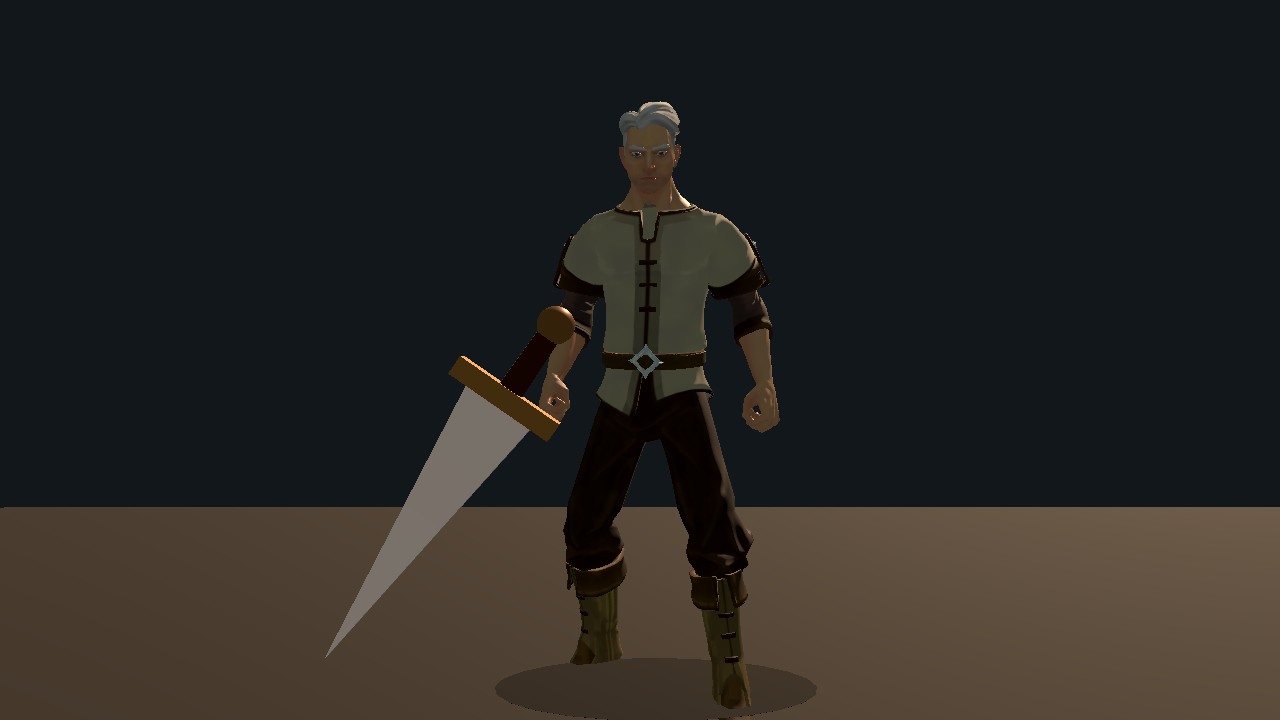
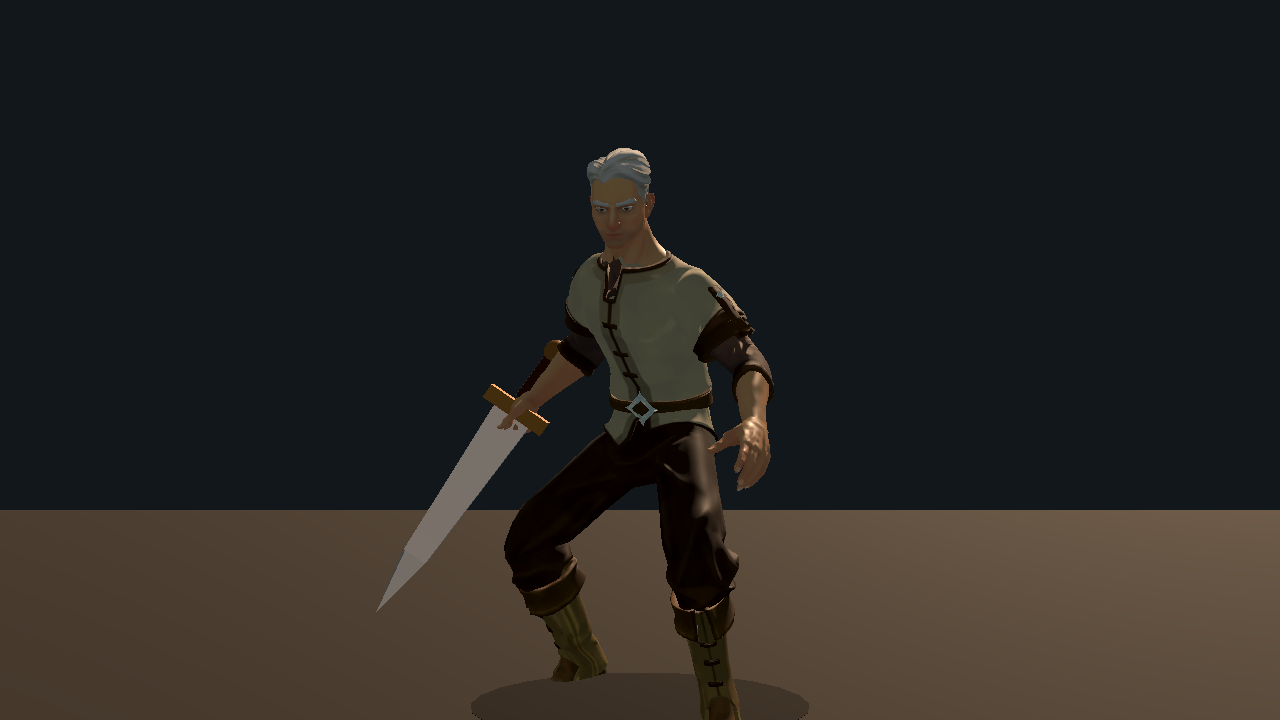
RECOVERY-003: finish locomotion and combat evidence checkpoint

Changed region(s): [[0.0, 0.1222, 1.0, 1.0]]

diff --git a/outputs/AshenOathTheRoadBetweenCrowns/RECOVERY-003_RESULT.md b/outputs/AshenOathTheRoadBetweenCrowns/RECOVERY-003_RESULT.md
@@ -1,5 +1,33 @@
 # RECOVERY-003 Result
 
+## Paused Atomic Checkpoint - 2026-09-05 (locomotion and combat presentation)
+
+- Current ticket: `RECOVERY-003`, focused character locomotion and sword-evidence
+  repair.
+- Completed work: backward gait fallback now reverses forward-only clips when no
+  authored reverse clip exists; missing input actions are treated as neutral in
+  standalone fixtures; the hand-attached Oathblade remains in the normalized
+  equipment hierarchy and has a gameplay-sized mesh; combat captures explicitly
+  draw the sword and advance manually processed animation frames; motion and
+  walk/menu verifiers now retire runtime resources through the shutdown contract.
+- Latest result: `verify_walk_menu_fix.gd`, `verify_motion_quality.gd`,
+  `verify_combat_001.gd`, and `verify_runtime_smoke.gd` all passed with clean
+  exits. Graphical `capture_anim_003.gd` and `capture_char_006.gd` both passed
+  at 1280x720 Compatibility resolution. The regenerated attack and parry
+  evidence contains an actual drawn sword and animated body pose. The CHAR-006
+  capture now warms the imported rig, samples the real PlayerController socket,
+  and rejects background-only frames before saving evidence.
+- Evidence: refreshed `ANIM_003_*` and `CHAR_006_Kael_Sword_Attack.png` frames in
+  `Development_Gallery/screenshots/`, plus the direct native verifier output
+  recorded during this checkpoint.
+- Remaining blocker: this is not a release approval. The broader recovery still
+  has known visual-quality, campaign-proof, startup, target-hardware, export,
+  and deployment blockers. No Web export, push, merge, or deployment was done
+  in this paused slice.
+- Exact next action on resume: begin only the next explicitly selected recovery
+  ticket after reviewing the current release blockers; do not rerun this
+  focused motion/capture set unless one of its inputs changes.
+
 ## Paused Atomic Checkpoint - 2026-09-05
 
 - Current ticket: `RECOVERY-003`, release-continuation performance checkpoint.
